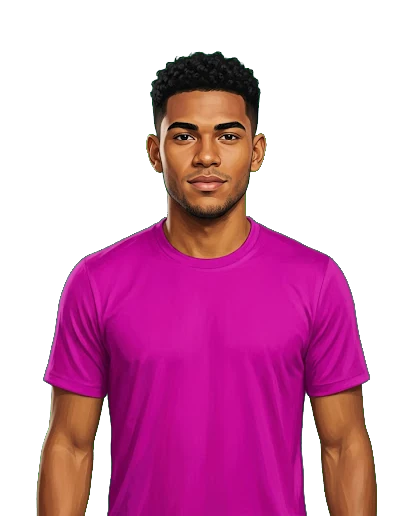
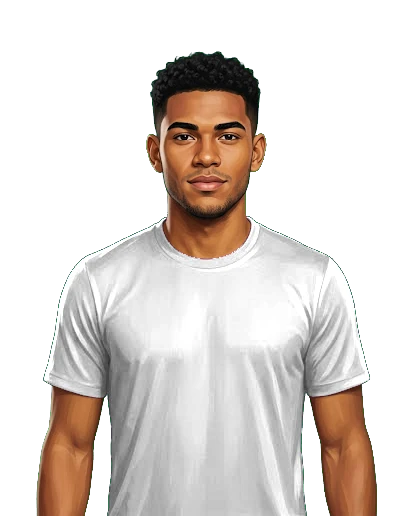
feat(T50h): camisa dos visuais em cinza com máscara para a cor do clube
processar_visuais.py troca o magenta da camisa (#CC00AA e sombras) por
cinza com a mesma luz e sombra (o tecido mais claro vira branco) e grava a
máscara da camisa (alfa) no mesmo quadro: visual-NN-camisa.webp. O jogo
multiplica a cor do clube sobre ela.

Medido nos 10 retratos: nenhum pixel magenta sobra (min(r,b)-g <= 15),
máscara em 66-70% do personagem, sem pegar pele, cabelo ou fundo; tamanhos
iguais aos de antes. Máscaras somam 44 KB.

Claude-Session: https://claude.ai/code/session_01Afp53NU5J5wNwSjZBmW8AF

diff --git a/src/data/visuais.test.ts b/src/data/visuais.test.ts
@@ -41,7 +41,7 @@ describe('visuais prontos (T50g, v2.36)', () => {
 
   it('cada visual tem a imagem provisória visual-NN.webp, em 4:5', () => {
     for (const v of LIST) expect(Object.keys(ART), v.id).toContain(`../assets/visuais/${v.id}.webp`);
-    expect(Object.keys(ART)).toHaveLength(10);
+    expect(Object.keys(ART).filter((k) => !k.endsWith('-camisa.webp'))).toHaveLength(10);
   });
 
   // pós-processamento (docs/arte/processar_visuais.py): fundo transparente e tela 4:5, lidos do cabeçalho do WebP
@@ -59,5 +59,17 @@ describe('visuais prontos (T50g, v2.36)', () => {
       expect(h.alpha, `${v.id} tem transparência`).toBe(true);
       expect(Math.abs(h.w / h.h - 0.8), `${v.id} ${h.w}x${h.h}`).toBeLessThan(0.01);
     }
+  });
+
+  // camisa pela cor do clube: o retrato traz a camisa em cinza e a máscara dela no mesmo quadro
+  it('cada visual tem a máscara da camisa visual-NN-camisa.webp, com alfa e do tamanho do retrato', () => {
+    for (const v of LIST) {
+      expect(Object.keys(ART), v.id).toContain(`../assets/visuais/${v.id}-camisa.webp`);
+      const m = header(`${v.id}-camisa`);
+      const r = header(v.id);
+      expect(m.alpha, `${v.id}-camisa tem alfa`).toBe(true);
+      expect([m.w, m.h], `${v.id}-camisa do tamanho do retrato`).toEqual([r.w, r.h]);
+    }
+    expect(Object.keys(ART)).toHaveLength(20);
   });
 });

diff --git a/docs/arte/processar_visuais.py b/docs/arte/processar_visuais.py
@@ -3,7 +3,8 @@
 
 Para cada imagem: (1) acha o fundo verde chapado e o torna transparente, sem franja verde nas bordas;
 (2) reenquadra em 4:5 estendendo a tela (nunca corta o corpo): cabeça a 10% do topo e margem lateral de pelo menos 8%;
-(3) grava um WebP com transparência em src/assets/visuais/visual-NN.webp.
+(3) troca a camisa magenta por cinza com a mesma luz e sombra e grava a máscara dela (o jogo pinta com a cor do clube);
+(4) grava WebP com transparência em src/assets/visuais/visual-NN.webp e a máscara em visual-NN-camisa.webp.
 
 Uso:
   uv run --with pillow --with numpy python docs/arte/processar_visuais.py [--saida pasta] [--largura 928] [--qualidade 90]
@@ -25,6 +26,8 @@ RATIO = 0.8                 # 4:5
 HEAD_TOP = 0.10             # topo da cabeça a 10% da altura
 SIDE_MIN = 0.08             # margem lateral mínima (fração da largura), medida a 80% da altura
 KEY_LO, KEY_HI = 0.30, 0.80  # faixa do "quanto é fundo" em que a transparência é parcial
+SHIRT_LO, SHIRT_HI = 10.0, 40.0  # "quanto é magenta" (min(r, b) - g) em que a máscara da camisa é parcial; pele e cabelo ficam abaixo de 0
+SHIRT_REF = 95               # percentil do brilho da camisa que vira branco no cinza (o tecido mais claro)
 
 
 def _corner_color(img):
@@ -58,6 +61,23 @@ def despill(img, alpha):
     return out
 
 
+def shirt_mask(img, alpha):
+    """Quanto cada pixel é camisa (0..1): o magenta chapado do prompt (#CC00AA e suas sombras), só onde há pessoa."""
+    mag = np.minimum(img[..., 0], img[..., 2]) - img[..., 1]
+    return np.clip((mag - SHIRT_LO) / (SHIRT_HI - SHIRT_LO), 0.0, 1.0) * alpha
+
+
+def neutralize(img, t):
+    """Troca o magenta da camisa por cinza com a mesma luz e sombra: o tecido mais claro vira branco, para o jogo
+    multiplicar pela cor do clube. Fora da máscara nada muda."""
+    lum = img[..., 0] * 0.299 + img[..., 1] * 0.587 + img[..., 2] * 0.114
+    core = t > 0.9
+    ref = max(float(np.percentile(lum[core], SHIRT_REF)), 1.0) if core.any() else 255.0
+    gray = np.round(np.clip(lum / ref, 0.0, 1.0) * 255)
+    out = img * (1 - t[..., None]) + gray[..., None] * t[..., None]
+    return np.where(t[..., None] > 0, np.round(out), img)
+
+
 def _bbox_rows(alpha):
     rows = np.where((alpha > 0.5).sum(1) > max(2, alpha.shape[1] * 0.01))[0]
     return int(rows[0]), int(rows[-1])
@@ -69,15 +89,11 @@ def _side_margin_px(alpha):
     return int(min(cols[0], w - 1 - cols[-1])) if len(cols) else 0
 
 
-def processar(im):
-    """Imagem PIL (fundo verde) -> RGBA 4:5 com a cabeça a 10% do topo e margens laterais >= 8%."""
-    rgb = np.asarray(im.convert('RGB')).astype(float)
-    h, w, _ = rgb.shape
-    alpha = matte(rgb)
-    clean = despill(rgb, alpha)
+def _frame(alpha):
+    """Tamanho final (4:5) e posição do retrato nele: cabeça a 10% do topo e margens laterais >= 8%."""
+    h, w = alpha.shape
     y_top, _ = _bbox_rows(alpha)
     m = _side_margin_px(alpha)
-
     t_head = max(0.0, (HEAD_TOP * h - y_top) / (1 - HEAD_TOP))    # folga em cima para a cabeça ficar a 10%
     h2a = h + t_head
     w2a = RATIO * h2a
@@ -86,14 +102,35 @@ def processar(im):
     w2 = max(w2a, w + 2 * p_min)
     h2 = int(np.ceil(w2 / RATIO))                                  # sempre para cima: nunca corta nem encolhe a margem
     w2 = int(np.ceil(h2 * RATIO))
-    t = h2 - h                                                     # todo o acréscimo vai no topo: o corte da cintura fica
+    return (w2, h2), ((w2 - w) // 2, h2 - h)                       # todo o acréscimo vai no topo: o corte da cintura fica
 
+
+def _place(rgb, alpha, size, pos):
+    h, w = alpha.shape
     rgba = np.zeros((h, w, 4), dtype=np.uint8)
-    rgba[..., :3] = np.clip(clean, 0, 255).astype(np.uint8)
+    rgba[..., :3] = np.clip(rgb, 0, 255).astype(np.uint8)
     rgba[..., 3] = np.clip(alpha * 255 + 0.5, 0, 255).astype(np.uint8)
-    canvas = Image.new('RGBA', (w2, h2), (0, 0, 0, 0))
-    canvas.paste(Image.fromarray(rgba, 'RGBA'), ((w2 - w) // 2, t))
+    canvas = Image.new('RGBA', size, (0, 0, 0, 0))
+    canvas.paste(Image.fromarray(rgba, 'RGBA'), pos)
     return canvas
+
+
+def processar(im):
+    """Imagem PIL (fundo verde) -> RGBA 4:5 com a cabeça a 10% do topo e margens laterais >= 8%."""
+    rgb = np.asarray(im.convert('RGB')).astype(float)
+    alpha = matte(rgb)
+    return _place(despill(rgb, alpha), alpha, *_frame(alpha))
+
+
+def processar_com_camisa(im):
+    """Como `processar`, com a camisa magenta trocada por cinza; devolve também a máscara da camisa (alfa), no mesmo quadro."""
+    rgb = np.asarray(im.convert('RGB')).astype(float)
+    alpha = matte(rgb)
+    t = shirt_mask(rgb, alpha)
+    size, pos = _frame(alpha)
+    retrato = _place(neutralize(despill(rgb, alpha), t), alpha, size, pos)
+    mascara = _place(np.full_like(rgb, 255.0), t, size, pos)
+    return retrato, mascara
 
 
 def medir(rgba):
@@ -134,9 +171,10 @@ def main():
         if not src:
             print(f'{name:10} sem imagem'); bad += 1; continue
         im = Image.open(src)
-        out = processar(im)
+        out, mask = processar_com_camisa(im)
         if args.largura and out.size[0] != args.largura:
-            out = out.resize((args.largura, int(round(args.largura / RATIO))), Image.LANCZOS)
+            size = (args.largura, int(round(args.largura / RATIO)))
+            out, mask = out.resize(size, Image.LANCZOS), mask.resize(size, Image.LANCZOS)
         r = medir(out)
         notes = []
         if not (9.0 <= r['topo'] <= 15.0):
@@ -147,6 +185,7 @@ def main():
             notes.append('origem em baixa resolução (provisório)')
         bad += bool([n for n in notes if 'provisório' not in n])
         out.save(os.path.join(args.saida, f'{name}.webp'), 'WEBP', quality=args.qualidade, alpha_quality=100, method=6)
+        mask.save(os.path.join(args.saida, f'{name}-camisa.webp'), 'WEBP', quality=args.qualidade, alpha_quality=100, method=6)
         print(f'{name:10} {im.size[0]}x{im.size[1]:<5} {out.size[0]}x{out.size[1]:<5} {r["topo"]:>6.1f} {r["margem_l"]:>4.0f}/{r["margem_r"]:<4.0f}  {"; ".join(notes) or "OK"}')
     return 1 if bad else 0
 

diff --git a/docs/arte/test_processar_visuais.py b/docs/arte/test_processar_visuais.py
@@ -71,6 +71,43 @@ def test_ja_enquadrada_nao_muda_de_forma():
     assert 9.0 <= 100 * rows[0] / h <= 11.0
 
 
+def _sombra(im):
+    """Uma dobra mais escura na camisa (metade do brilho), para conferir que luz e sombra ficam."""
+    a = np.asarray(im).copy(); h, w, _ = a.shape
+    a[int(h * 0.6):int(h * 0.7), w // 2 - 20:w // 2 + 20] = (102, 0, 85)
+    return Image.fromarray(a)
+
+
+def test_mascara_da_camisa_pega_so_o_magenta():
+    img = np.asarray(fake()).astype(float)
+    t = pv.shirt_mask(img, pv.matte(img))
+    assert t[300, 200] == 1.0, 'camisa inteira na máscara'
+    assert t[60, 200] == 0.0, 'rosto fora da máscara'
+    assert t[2, 2] == 0.0, 'fundo fora da máscara'
+
+
+def test_camisa_vira_cinza_com_luz_e_sombra():
+    img = np.asarray(_sombra(fake())).astype(float)
+    t = pv.shirt_mask(img, pv.matte(img))
+    out = pv.neutralize(img, t)
+    claro, escuro = out[300, 100], out[325, 200]
+    assert claro[0] == claro[1] == claro[2] and claro[0] >= 240, f'tecido claro vira quase branco: {claro}'
+    assert escuro[0] == escuro[1] == escuro[2] and escuro[0] < claro[0] * 0.7, f'a dobra continua mais escura: {escuro}'
+    assert (out[60, 200] == img[60, 200]).all(), 'o rosto não muda'
+
+
+def test_processar_camisa_devolve_retrato_sem_magenta_e_mascara_no_mesmo_quadro():
+    retrato, mascara = pv.processar_com_camisa(_sombra(fake(head_top=0.04)))
+    assert retrato.size == mascara.size and mascara.mode == 'RGBA'
+    r = np.asarray(retrato).astype(float)
+    op = r[..., 3] > 128
+    mag = np.minimum(r[..., 0], r[..., 2]) - r[..., 1]
+    assert (mag[op] <= 15).all(), 'nenhum magenta sobra no retrato'
+    m = np.asarray(mascara)[..., 3]
+    w, h = retrato.size
+    assert m[int(h * 0.8), w // 2] == 255 and m[int(h * 0.15), w // 2] == 0, 'máscara na camisa, fora da cabeça'
+
+
 def test_fundo_com_tom_diferente_tambem_sai():
     a = pv.matte(np.asarray(fake(bg=(20, 150, 60))).astype(float))
     assert a[2, 2] == 0
